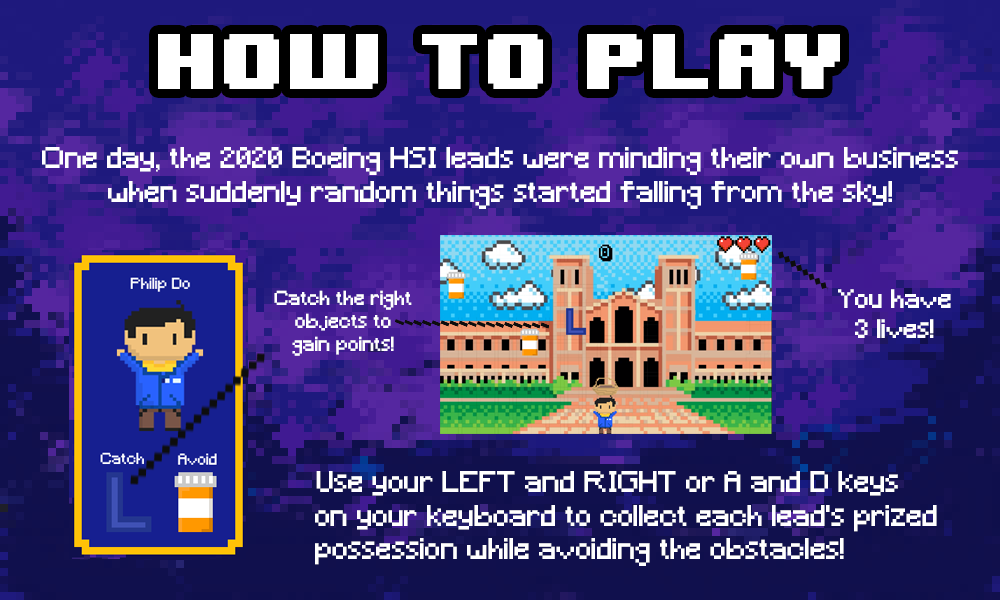
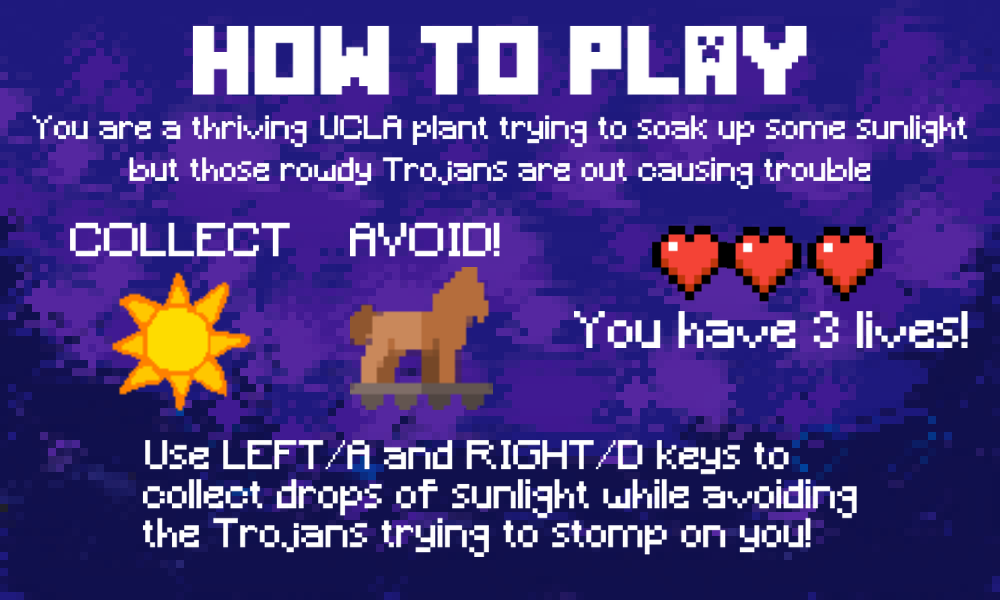
new how to play and variable name changes

diff --git a/main.py b/main.py
@@ -65,7 +65,7 @@ def quick_load(img):
 
 # Images
 border_img = quick_load(cwd + str(Path("/Game Files/Images/Borders/leaf_border_active.png")))
-small_icon = quick_load(cwd + str(Path("/Game Files/Images/Etc/small_icon.png")))
+sun_icon = quick_load(cwd + str(Path("/Game Files/Images/Catch/sun_catch.png")))
 heart_img = quick_load(cwd + str(Path("/Game Files/Images/Etc/heart.png")))
 game_over_text = quick_load(cwd + str(Path("/Game Files/Images/Etc/gameover.png")))
 main_background = quick_load(cwd + str(Path("/Game Files/Images/Backgrounds/char_select.png")))
@@ -73,8 +73,8 @@ main_menu_background = quick_load(cwd + str(Path("/Game Files/Images/Backgrounds
 golden_border = quick_load(cwd + str(Path("/Game Files/Images/Borders/gold_border.png")))
 htp_background = quick_load(cwd + str(Path("/Game Files/Images/Backgrounds/htp.png")))
 about_bg = quick_load(cwd + str(Path("/Game Files/Images/Backgrounds/about.png")))
-# Philip Images
-andrea = {
+# Piranha Plant Images
+piranha = {
     'char': quick_load(cwd + str(Path("/Game Files/Images/Leads/piranha.png"))),
     'obstacle': quick_load(cwd + str(Path("/Game Files/Images/Obstacles/trojan_obstacle.png"))),
     'catch': quick_load(cwd + str(Path("/Game Files/Images/Catch/sun_catch.png"))),
@@ -82,8 +82,8 @@ andrea = {
     'inactive': quick_load(cwd + str(Path("/Game Files/Images/Borders/piranha_border_inactive.png"))),
     'active': quick_load(cwd + str(Path("/Game Files/Images/Borders/piranha_border_active.png")))
 }
-# Jessica Images
-jessica = {
+# Lotus Flower Images
+lotus = {
     'char': quick_load(cwd + str(Path("/Game Files/Images/Leads/lotus.png"))),
     'obstacle': quick_load(cwd + str(Path("/Game Files/Images/Obstacles/trojan_obstacle.png"))),
     'catch': quick_load(cwd + str(Path("/Game Files/Images/Catch/sun_catch.png"))),
@@ -91,8 +91,8 @@ jessica = {
     'inactive': quick_load(cwd + str(Path("/Game Files/Images/Borders/lotus_border_inactive.png"))),
     'active': quick_load(cwd + str(Path("/Game Files/Images/Borders/lotus_border_active.png")))
 }
-# Andrea Images
-philip = {
+# The Leaf Images
+leaf = {
     'char': quick_load(cwd + str(Path("/Game Files/Images/Leads/leaf.png"))),
     'obstacle': quick_load(cwd + str(Path("/Game Files/Images/Obstacles/trojan_obstacle.png"))),
     'catch': quick_load(cwd + str(Path("/Game Files/Images/Catch/sun_catch.png"))),
@@ -101,7 +101,7 @@ philip = {
     'active': quick_load(cwd + str(Path("/Game Files/Images/Borders/leaf_border_active.png")))
 }
 # Eric Images
-eric = {
+sunflower = {
     'char': quick_load(cwd + str(Path("/Game Files/Images/Leads/sunflower.png"))),
     'obstacle': quick_load(cwd + str(Path("/Game Files/Images/Obstacles/trojan_obstacle.png"))),
     'catch': quick_load(cwd + str(Path("/Game Files/Images/Catch/sun_catch.png"))),
@@ -125,7 +125,7 @@ person = None
 
 # Other Stuff
 pygame.display.set_caption('2020 Boeing HSI Game')
-pygame.display.set_icon(small_icon)
+pygame.display.set_icon(sun_icon)
 
 
 def quitgame():
@@ -202,14 +202,14 @@ def update_variable(char):
 def set_char(char):
     global chosen_char
     chosen_char = True
-    if char == philip:
-        update_variable(philip)
-    elif char == jessica:
-        update_variable(jessica)
-    elif char == eric:
-        update_variable(eric)
-    elif char == andrea:
-        update_variable(andrea)
+    if char == leaf:
+        update_variable(leaf)
+    elif char == lotus:
+        update_variable(lotus)
+    elif char == sunflower:
+        update_variable(sunflower)
+    elif char == piranha:
+        update_variable(piranha)
 
 
 def button(inactive_img, active_img, x, y, action=None):
@@ -228,28 +228,28 @@ def button(inactive_img, active_img, x, y, action=None):
         screen.blit(golden_border, border_coords)
 
 # These functions place the character we control on the field
-def set_philip():
+def set_leaf():
     global border_coords
-    set_char(philip)
-    border_coords = (755, 100)
+    set_char(leaf)
+    border_coords = (755, 150)
 
 
-def set_jessica():
+def set_lotus():
     global border_coords
-    set_char(jessica)
-    border_coords = (265, 100)
+    set_char(lotus)
+    border_coords = (265, 150)
 
 
-def set_andrea():
+def set_piranha():
     global border_coords
-    set_char(andrea)
-    border_coords = (510, 100)
+    set_char(piranha)
+    border_coords = (510, 150)
 
 
-def set_eric():
+def set_sunflower():
     global border_coords
-    set_char(eric)
-    border_coords = (20, 100)
+    set_char(sunflower)
+    border_coords = (20, 150)
 
 # Lose all lives scenario
 def crash():
@@ -328,13 +328,13 @@ def menu():
         update_points(points, 0)
 
         # need to add another button type that is a blank with a price tag
-        button(eric['inactive'], eric['active'], 20, 100, set_eric)
+        button(sunflower['inactive'], sunflower['active'], 20, 150, set_sunflower)
         if points > BENCHMARK0:
-            button(jessica['inactive'], jessica['active'], 265, 100, set_jessica)
+            button(lotus['inactive'], lotus['active'], 265, 150, set_lotus)
         if points > BENCHMARK1:
-            button(philip['inactive'], philip['active'], 755, 100, set_philip)
+            button(leaf['inactive'], leaf['active'], 755, 150, set_leaf)
         if points > BENCHMARK2:
-            button(andrea['inactive'], andrea['active'], 510, 100, set_andrea)
+            button(piranha['inactive'], piranha['active'], 510, 150, set_piranha)
 
         if chosen_char:
             button(buttons['START'][0], buttons['START'][1], (screen_width/2)+100, 510, game)
